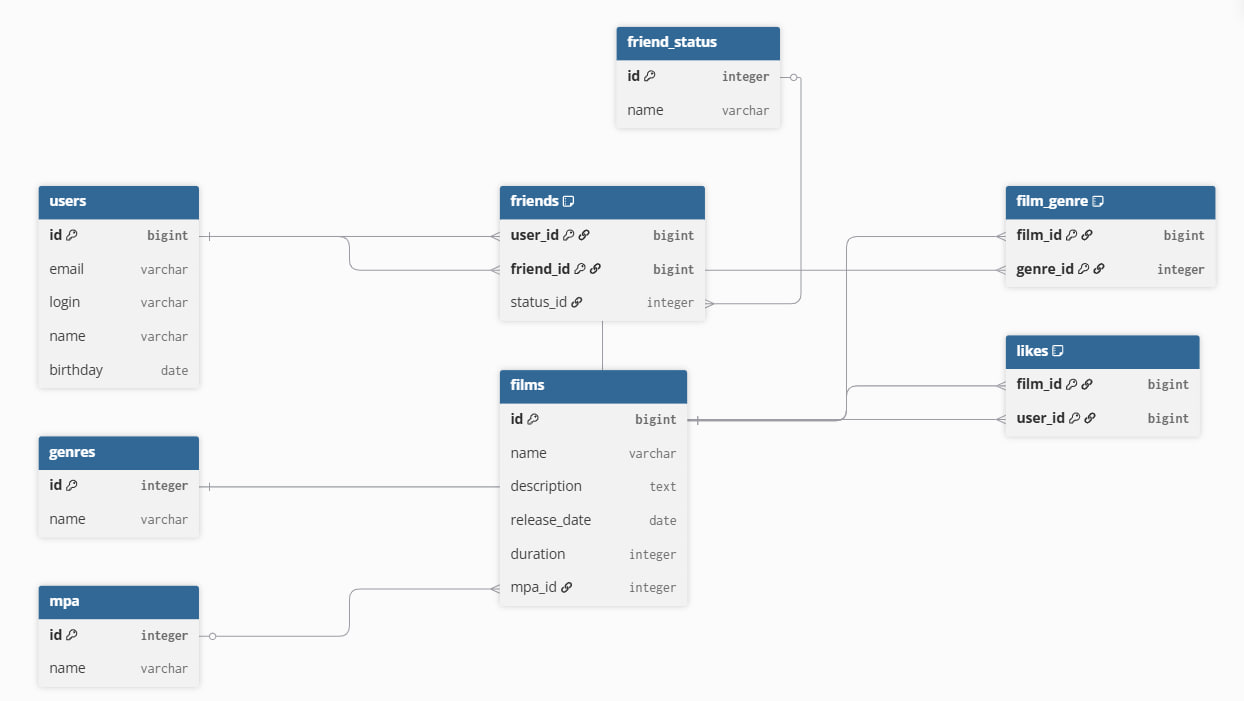
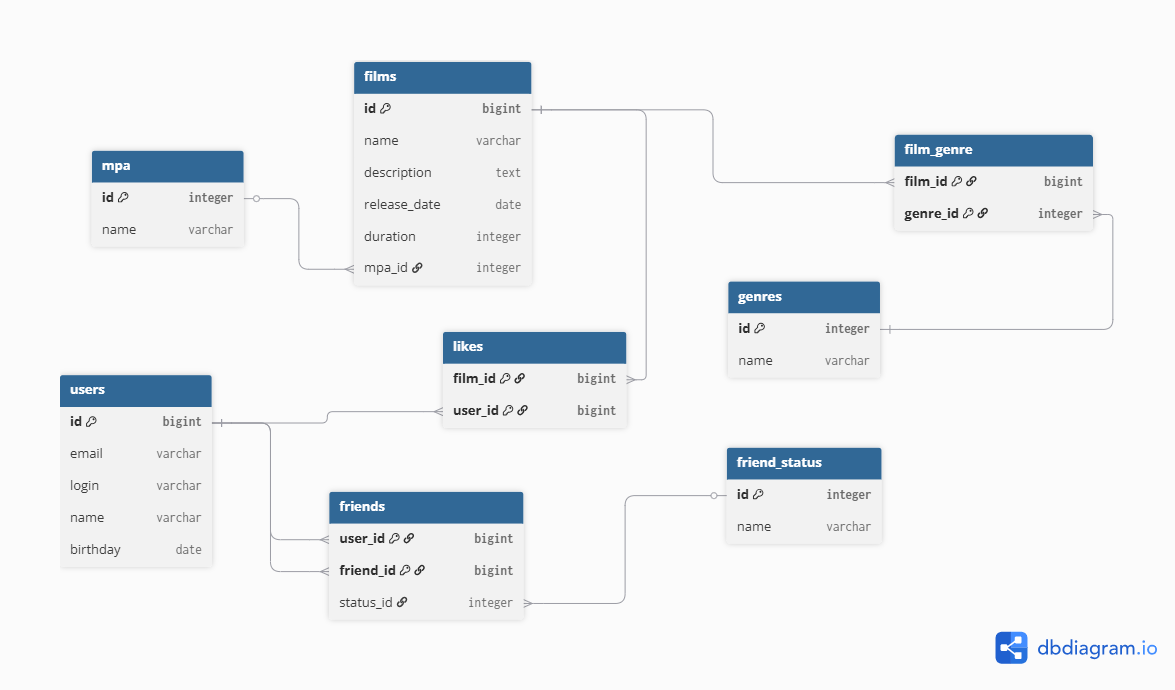
Add database schema 2.0

diff --git a/src/main/java/ru/yandex/practicum/filmorate/model/User.java b/src/main/java/ru/yandex/practicum/filmorate/model/User.java
@@ -3,7 +3,9 @@ package ru.yandex.practicum.filmorate.model;
 import lombok.Data;
 
 import java.time.LocalDate;
+import java.util.HashMap;
 import java.util.HashSet;
+import java.util.Map;
 import java.util.Set;
 
 @Data
@@ -14,5 +16,5 @@ public class User {
     private String login;
     private String name;
     private LocalDate birthday;
-    private Set<Integer> friends = new HashSet<>();
+    private Map<Integer, FriendshipStatus> friends = new HashMap<>();
 }

diff --git a/src/main/java/ru/yandex/practicum/filmorate/model/Film.java b/src/main/java/ru/yandex/practicum/filmorate/model/Film.java
@@ -15,4 +15,6 @@ public class Film {
     private LocalDate releaseDate;
     private Integer duration;
     private Set<Integer> likes = new HashSet<>();
+    private Mpa mpa;
+    private Set<Genre> genres = new HashSet<>();
 }

diff --git a/src/main/java/ru/yandex/practicum/filmorate/model/Genre.java b/src/main/java/ru/yandex/practicum/filmorate/model/Genre.java
@@ -1,4 +1,10 @@
 package ru.yandex.practicum.filmorate.model;
 
 public enum Genre {
+    COMEDY,
+    DRAMA,
+    CARTOON,
+    THRILLER,
+    DOCUMENTARY,
+    ACTION
 }

diff --git a/src/main/java/ru/yandex/practicum/filmorate/model/Mpa.java b/src/main/java/ru/yandex/practicum/filmorate/model/Mpa.java
@@ -1,4 +1,9 @@
 package ru.yandex.practicum.filmorate.model;
 
 public enum Mpa {
+    G,
+    PG,
+    PG_13,
+    R,
+    NC_17
 }

diff --git a/src/main/java/ru/yandex/practicum/filmorate/model/FriendshipStatus.java b/src/main/java/ru/yandex/practicum/filmorate/model/FriendshipStatus.java
@@ -1,4 +1,6 @@
 package ru.yandex.practicum.filmorate.model;
 
 public enum FriendshipStatus {
+    UNCONFIRMED,
+    CONFIRMED
 }

diff --git a/README.md b/README.md
@@ -36,9 +36,15 @@ WHERE id = 1;
 Получение фильма по id
 
 ```sql
-SELECT *
-FROM films
-WHERE id = 1;
+SELECT f.id,
+       f.name,
+       f.description,
+       f.release_date,
+       f.duration,
+       m.name AS mpa_rating
+FROM films f
+JOIN mpa m ON f.mpa_id = m.id
+WHERE f.id = 1;
 ```
 
 Получение друзей пользователя
